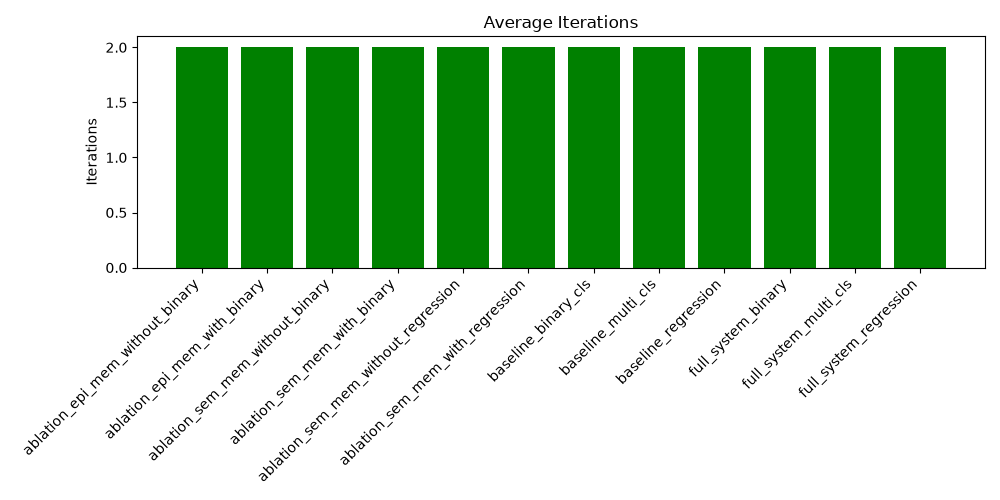
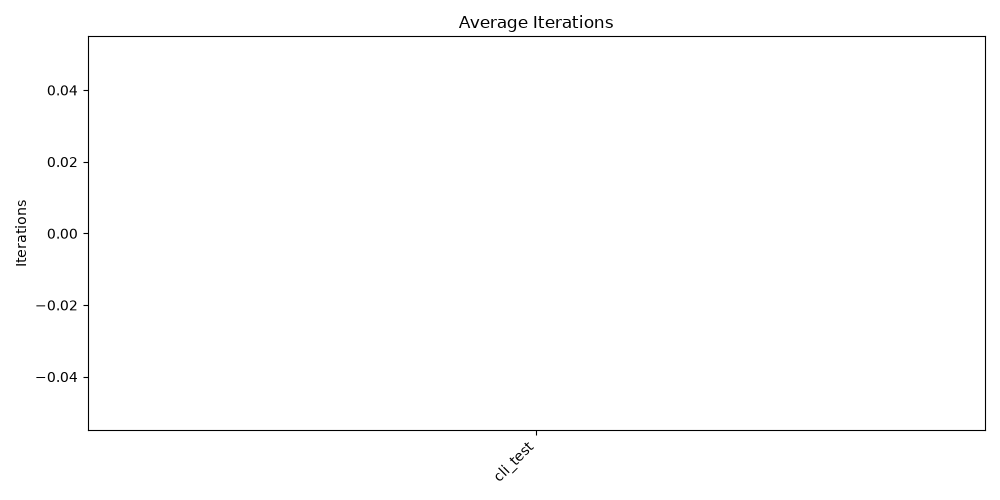
docs: update final evaluation results

diff --git a/reports/evaluation_report.md b/reports/evaluation_report.md
@@ -1,75 +1,9 @@
 # MLZero Evaluation Report
 
 ## Summary of Results
-### ablation_epi_mem_without_binary
+### cli_test
 - **Success:** True
-- **Iterations:** 2
-- **Execution Time:** 4.04s
-- **Error:** None
-
-### ablation_epi_mem_with_binary
-- **Success:** True
-- **Iterations:** 2
-- **Execution Time:** 4.12s
-- **Error:** None
-
-### ablation_sem_mem_without_binary
-- **Success:** True
-- **Iterations:** 2
-- **Execution Time:** 4.13s
-- **Error:** None
-
-### ablation_sem_mem_with_binary
-- **Success:** True
-- **Iterations:** 2
-- **Execution Time:** 4.03s
-- **Error:** None
-
-### ablation_sem_mem_without_regression
-- **Success:** True
-- **Iterations:** 2
-- **Execution Time:** 3.09s
-- **Error:** None
-
-### ablation_sem_mem_with_regression
-- **Success:** True
-- **Iterations:** 2
-- **Execution Time:** 3.21s
-- **Error:** None
-
-### baseline_binary_cls
-- **Success:** True
-- **Iterations:** 2
-- **Execution Time:** 4.10s
-- **Error:** None
-
-### baseline_multi_cls
-- **Success:** True
-- **Iterations:** 2
-- **Execution Time:** 4.12s
-- **Error:** None
-
-### baseline_regression
-- **Success:** True
-- **Iterations:** 2
-- **Execution Time:** 3.10s
-- **Error:** None
-
-### full_system_binary
-- **Success:** True
-- **Iterations:** 2
-- **Execution Time:** 4.15s
-- **Error:** None
-
-### full_system_multi_cls
-- **Success:** True
-- **Iterations:** 2
-- **Execution Time:** 4.09s
-- **Error:** None
-
-### full_system_regression
-- **Success:** True
-- **Iterations:** 2
-- **Execution Time:** 3.04s
+- **Iterations:** None
+- **Execution Time:** N/A
 - **Error:** None
 
